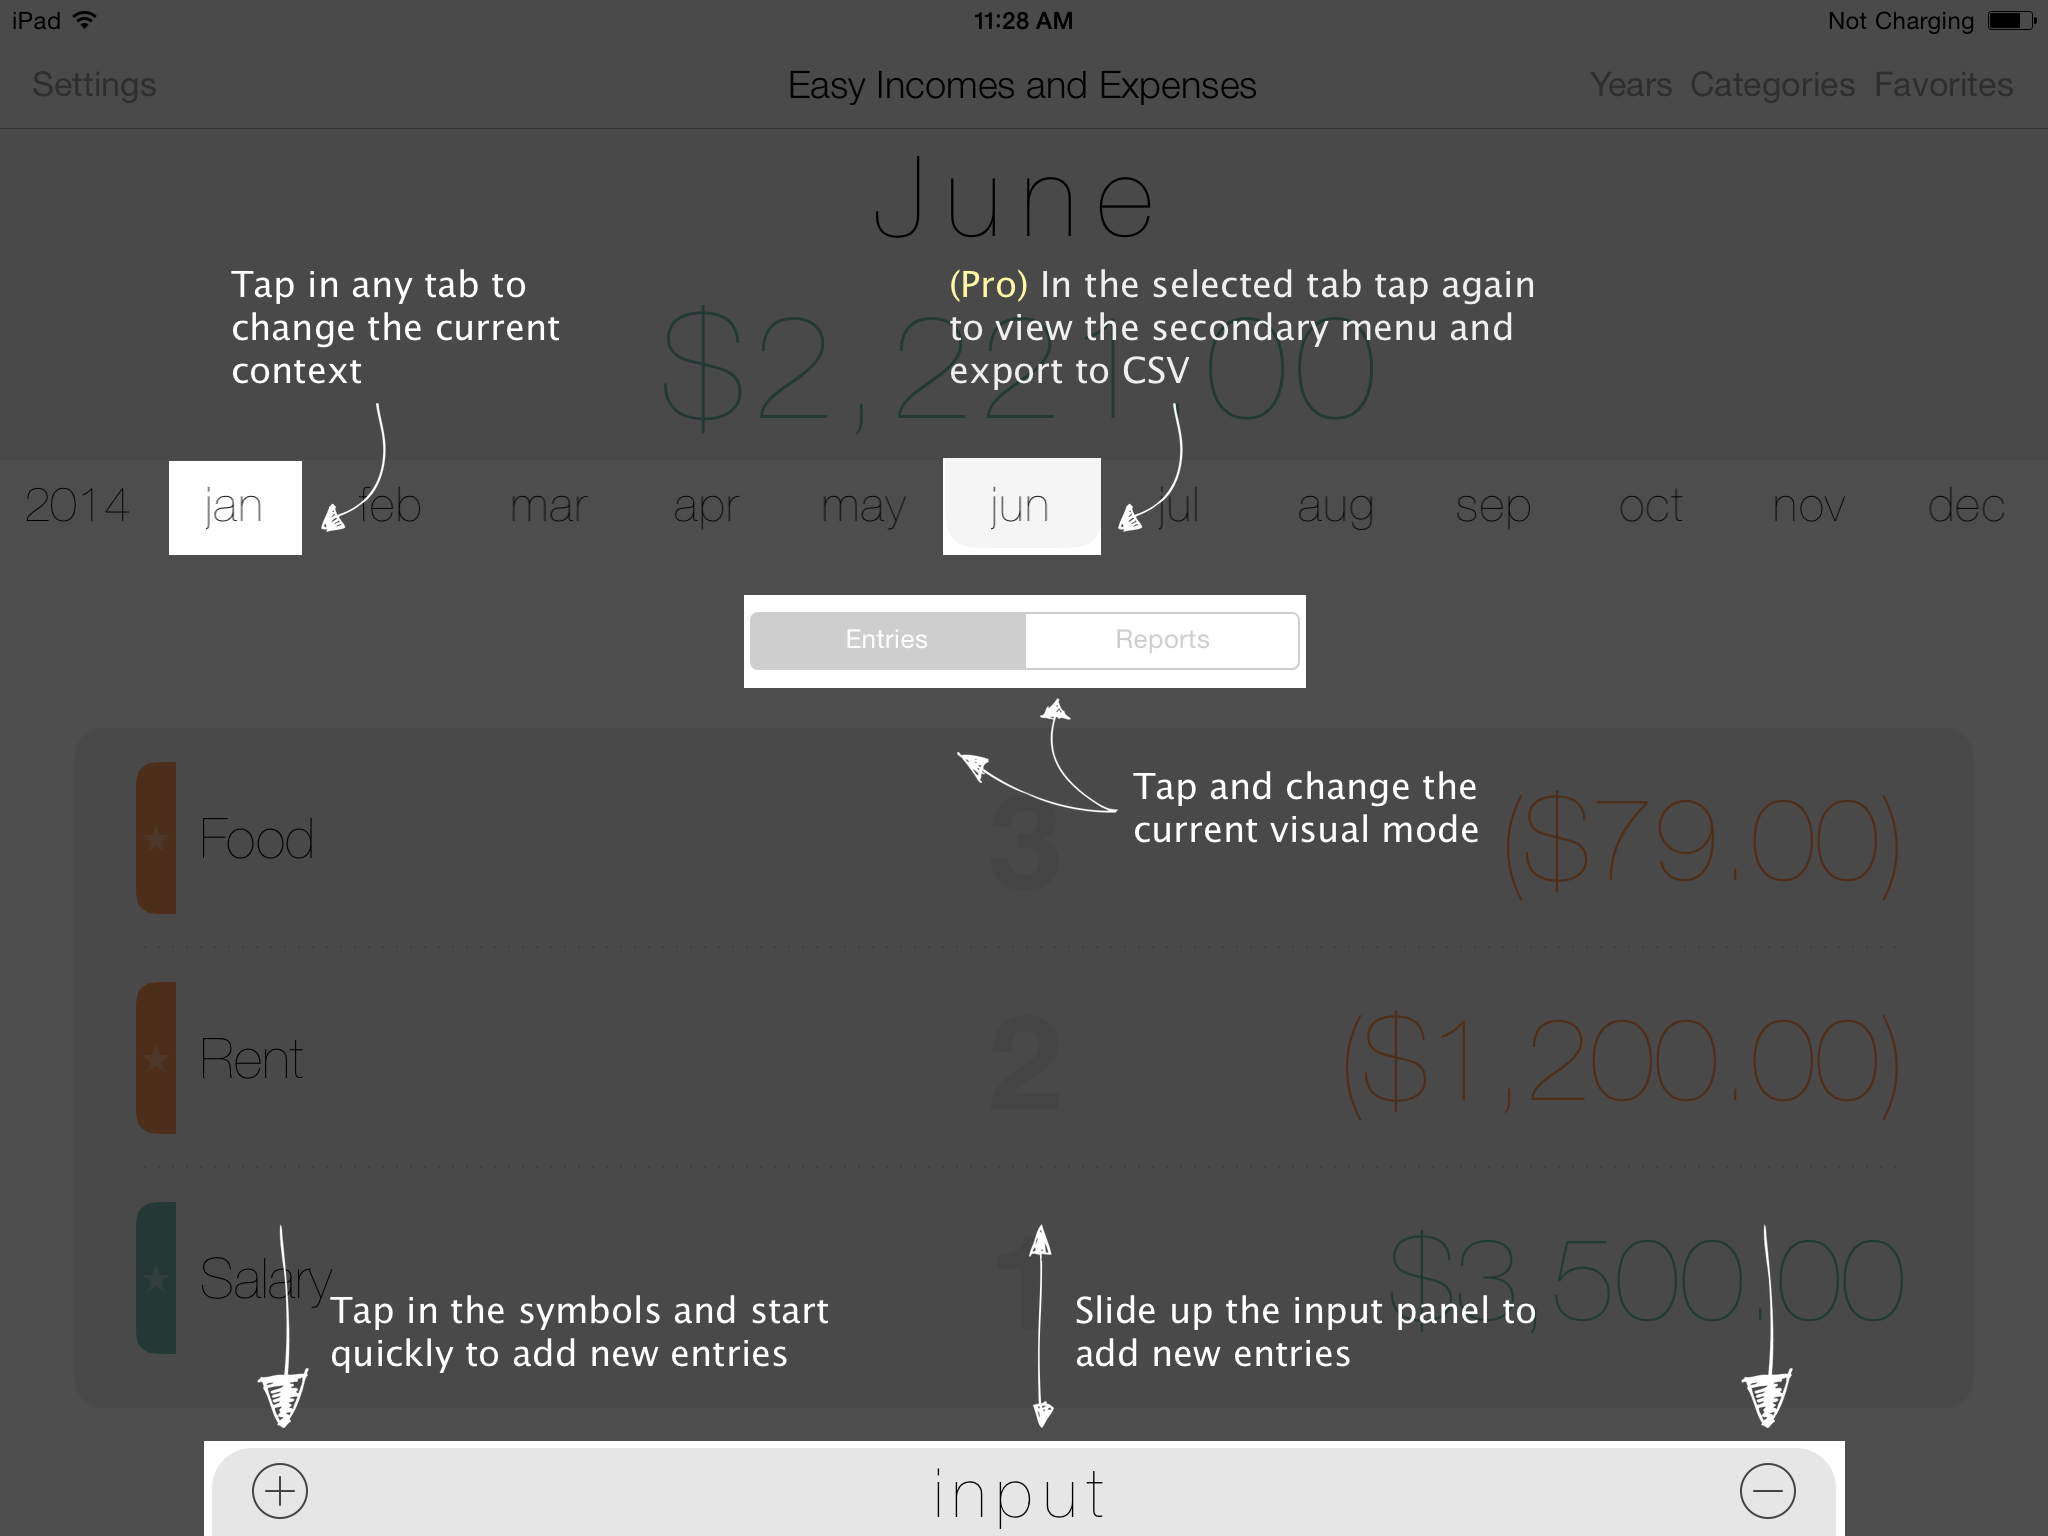
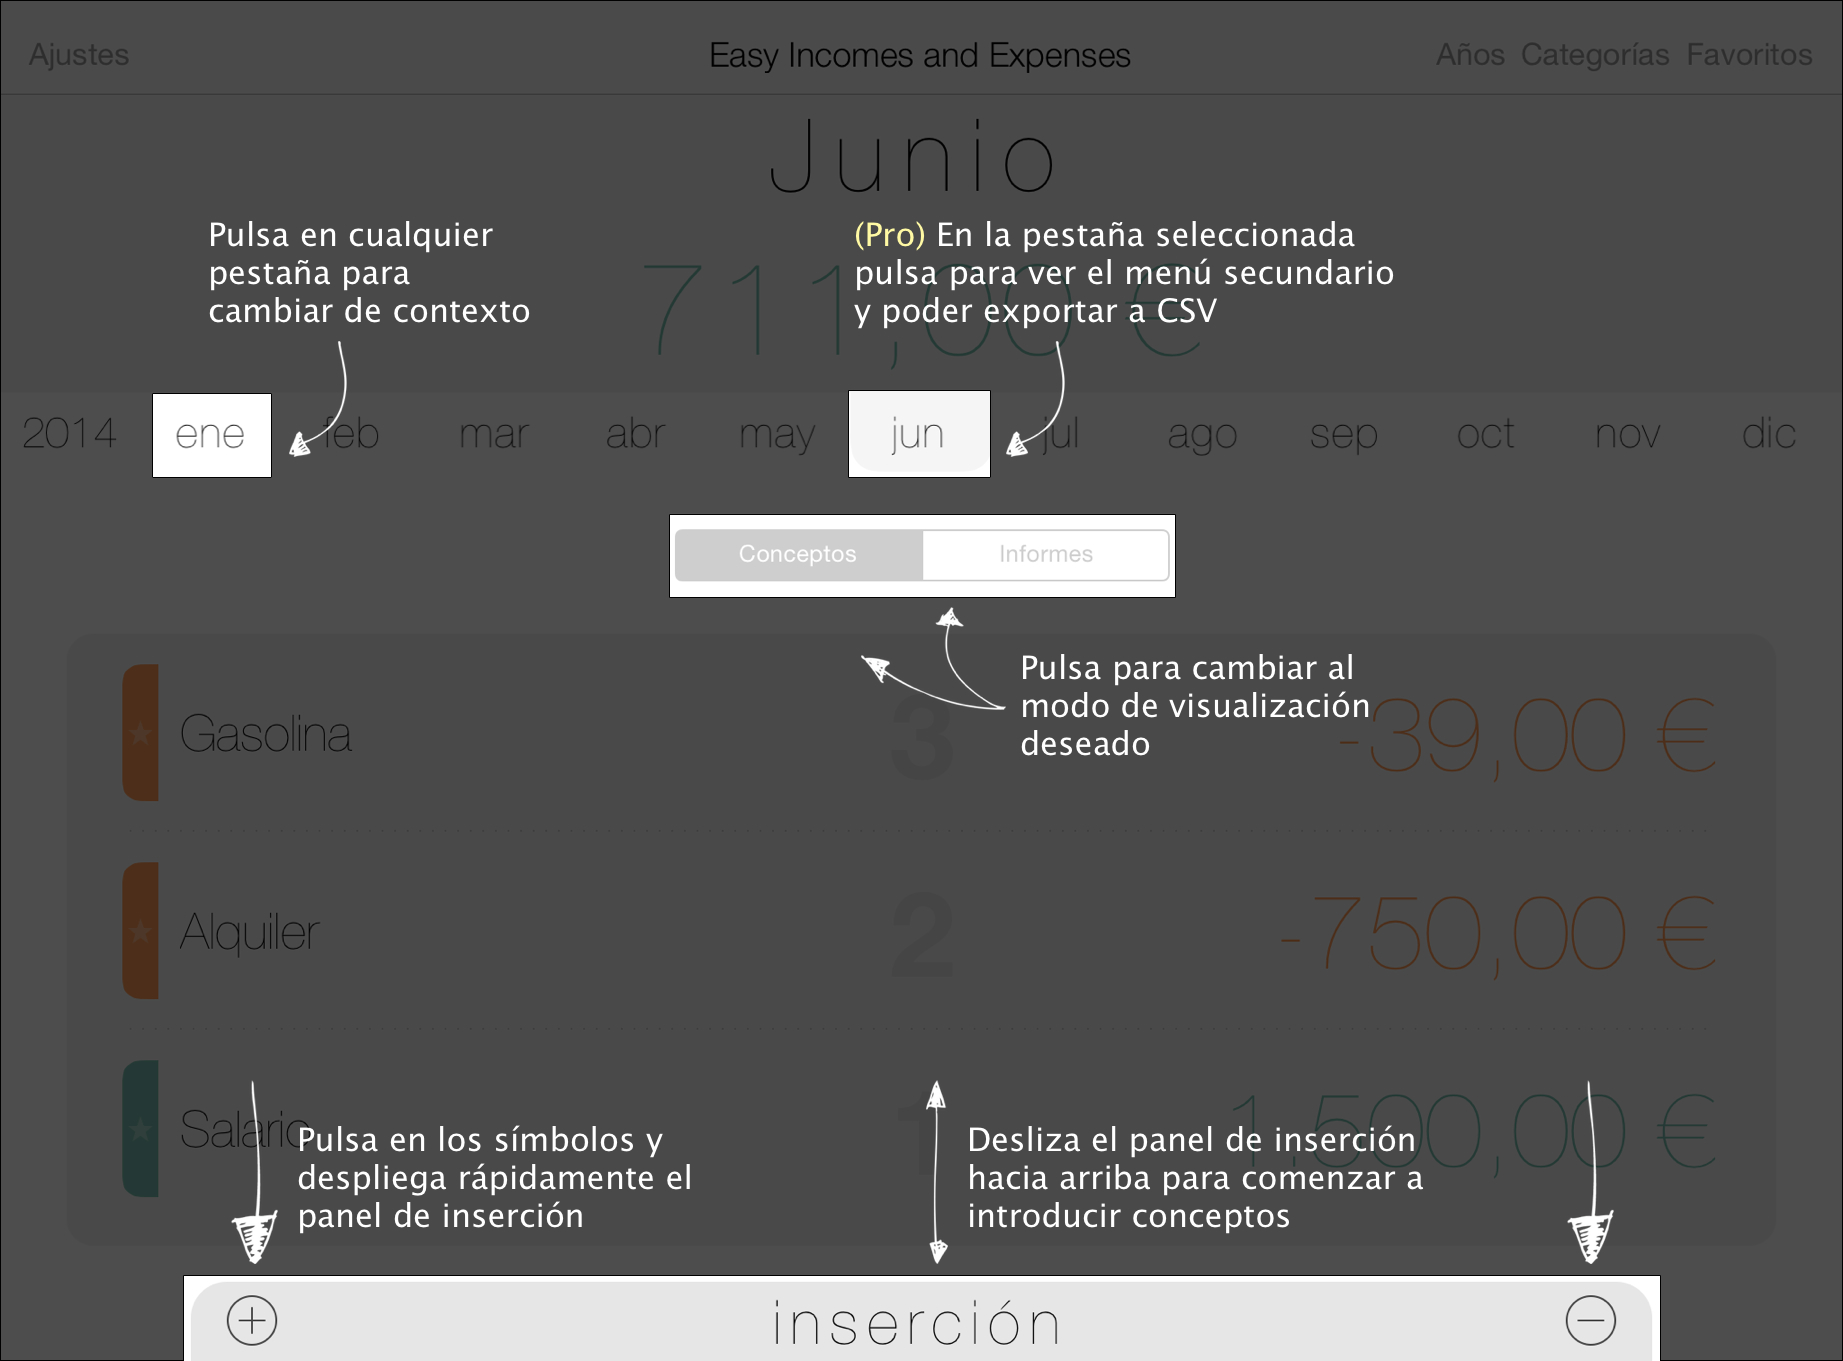
Logica de actualización del page controller con el scrollview

diff --git a/Code/IncomesAndExpenses/IAEHelpCarouselViewController.m b/Code/IncomesAndExpenses/IAEHelpCarouselViewController.m
@@ -50,7 +50,7 @@
 - (void)viewWillAppear:(BOOL)animated
 {
     [super viewWillAppear:animated];
-    
+ 
     [self prepareScrollView];
     [self configurePageController];
 }
@@ -87,13 +87,30 @@
 
 - (void)configurePageController
 {
-    
+    self.pageController.numberOfPages = self.helpScreens.count;
 }
 
 - (void)didReceiveMemoryWarning
 {
     [super didReceiveMemoryWarning];
     // Dispose of any resources that can be recreated.
+}
+
+- (BOOL)prefersStatusBarHidden
+{
+    return YES;
+}
+
+#pragma mark - UIScrollViewDelegate
+
+- (void)scrollViewDidScroll:(UIScrollView *)scrollView
+{
+    [self updatePageControl];
+}
+
+- (void)updatePageControl
+{
+    self.pageController.currentPage = self.scrollView.contentOffset.x / CGRectGetWidth(self.scrollView.frame);
 }
 
 #pragma mark - Events
